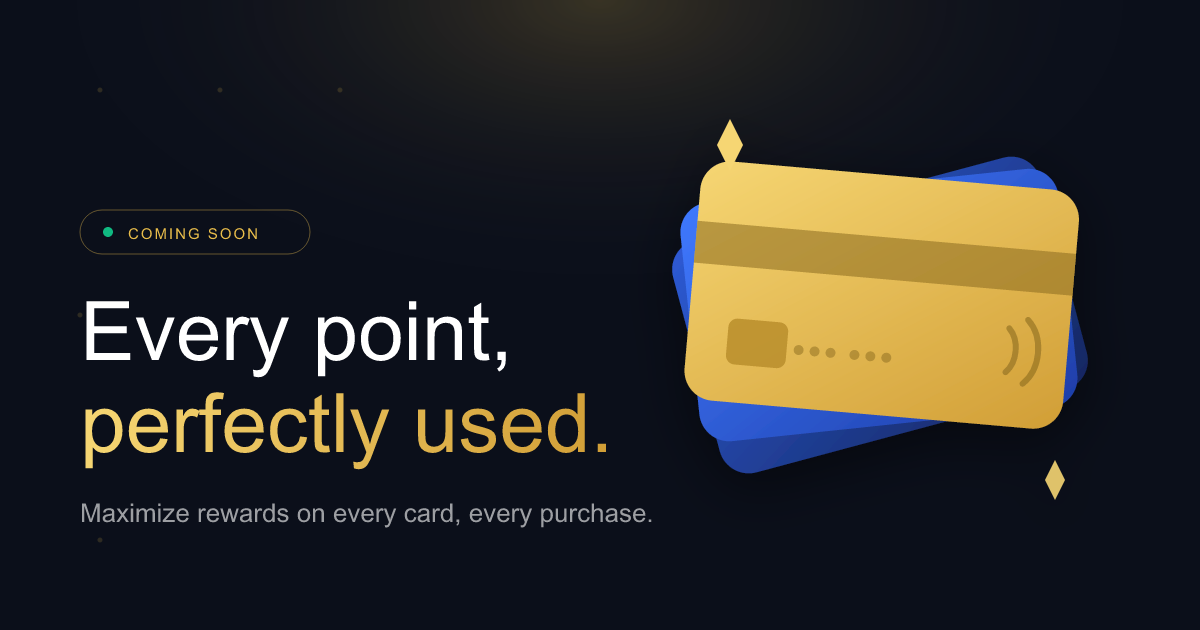
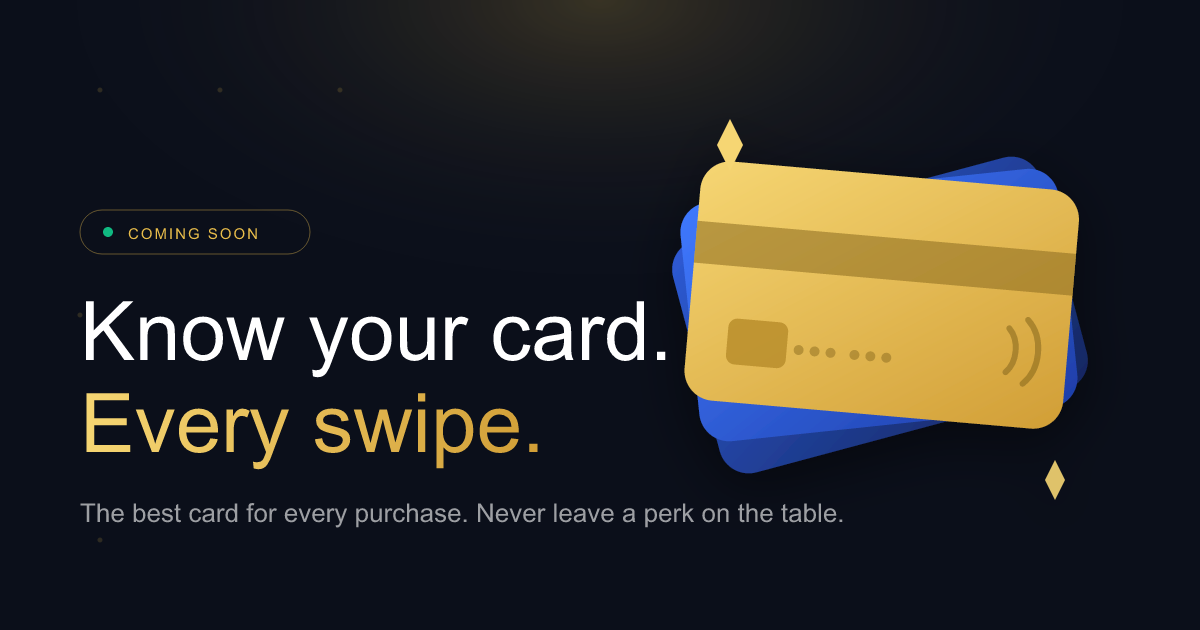
copy(hero): honest reframe — "Know your card. Every swipe." + de-track mockups
Match the landing to what the app actually does — recommendation + perks,
not point-tracking. Adopt the app's own tagline as the headline; rewrite the
subhead around "best card, wherever you are — never leave a perk on the table,
no account linking." Strip the fake tracked totals from the hero phones
(earned / this month / today) and show each card's best category, a real
recurring-credit reminder, and a "2 perks expire soon" nudge (Pillar 2).
Update title / OG / Twitter / manifest + the OG image to the new slogan and
the dark+gold colors.

Changed region(s): [[0.0617, 0.6032, 0.5242, 0.754], [0.0617, 0.4825, 0.555, 0.6032], [0.0617, 0.7841, 0.7092, 0.8444]]

diff --git a/index.html b/index.html
@@ -4,13 +4,13 @@
     <meta charset="UTF-8" />
     <meta name="viewport" content="width=device-width, initial-scale=1.0" />
     <meta name="theme-color" content="#0B0F1A" />
-    <title>PointStax — Every point, perfectly used.</title>
-    <meta name="description" content="Maximize rewards on every purchase. PointStax tells you exactly which credit card to use, every time." />
+    <title>PointStax — Know your card. Every swipe.</title>
+    <meta name="description" content="PointStax tells you the best card to use for every purchase — and never lets you leave a perk on the table. No account linking, ever." />
     <link rel="canonical" href="https://pointstax.ai" />
 
     <!-- Open Graph -->
-    <meta property="og:title" content="PointStax — Every point, perfectly used." />
-    <meta property="og:description" content="Maximize rewards on every purchase, across every card you own." />
+    <meta property="og:title" content="PointStax — Know your card. Every swipe." />
+    <meta property="og:description" content="The best card for every purchase — and never leave a perk on the table. No account linking." />
     <meta property="og:image" content="https://pointstax.ai/og-image.png" />
     <meta property="og:image:width" content="1200" />
     <meta property="og:image:height" content="630" />
@@ -20,8 +20,8 @@
 
     <!-- Twitter -->
     <meta name="twitter:card" content="summary_large_image" />
-    <meta name="twitter:title" content="PointStax — Every point, perfectly used." />
-    <meta name="twitter:description" content="Maximize rewards on every purchase, across every card you own." />
+    <meta name="twitter:title" content="PointStax — Know your card. Every swipe." />
+    <meta name="twitter:description" content="The best card for every purchase — and never leave a perk on the table. No account linking." />
     <meta name="twitter:image" content="https://pointstax.ai/og-image.png" />
 
     <!-- Favicon -->

diff --git a/src/components/HeroPhones.tsx b/src/components/HeroPhones.tsx
@@ -59,7 +59,7 @@ export function HeroPhones() {
         <div style={{ padding: '10px 14px 6px' }}>
           <div style={{ fontSize: 8, color: 'rgba(255,255,255,0.35)', marginBottom: 2 }}>Good morning, Gabriel</div>
           <div style={{ fontSize: 13, color: 'white', fontWeight: 700 }}>My Cards</div>
-          <div style={{ fontSize: 8, color: 'rgba(255,255,255,0.4)', marginTop: 2 }}>3 cards · $2,847 pts this month</div>
+          <div style={{ fontSize: 8, color: 'rgba(255,255,255,0.4)', marginTop: 2 }}>3 cards · always the right one</div>
         </div>
         <div style={{ height: 1, background: 'rgba(255,255,255,0.06)', margin: '6px 10px' }} />
 
@@ -68,7 +68,7 @@ export function HeroPhones() {
           <div style={{ width: 28, height: 18, borderRadius: 4, background: 'linear-gradient(135deg, #1a1a6e, #2563EB)', flexShrink: 0 }} />
           <div style={{ flex: 1, minWidth: 0 }}>
             <div style={{ fontSize: 9, color: 'white', fontWeight: 600 }}>Chase Sapphire</div>
-            <div style={{ fontSize: 7.5, color: 'rgba(255,255,255,0.4)' }}>1,240 pts earned</div>
+            <div style={{ fontSize: 7.5, color: 'rgba(255,255,255,0.4)' }}>best for dining</div>
           </div>
           <div style={{ fontSize: 11, fontWeight: 800, color: '#60A5FA' }}>3×</div>
         </div>
@@ -78,7 +78,7 @@ export function HeroPhones() {
           <div style={{ width: 28, height: 18, borderRadius: 4, background: 'linear-gradient(135deg, #b8860b, #ffd700)', flexShrink: 0 }} />
           <div style={{ flex: 1, minWidth: 0 }}>
             <div style={{ fontSize: 9, color: 'white', fontWeight: 600 }}>Amex Gold</div>
-            <div style={{ fontSize: 7.5, color: 'rgba(255,255,255,0.4)' }}>840 pts earned</div>
+            <div style={{ fontSize: 7.5, color: 'rgba(255,255,255,0.4)' }}>best for groceries</div>
           </div>
           <div style={{ fontSize: 11, fontWeight: 800, color: '#ffd700' }}>4×</div>
         </div>
@@ -88,14 +88,14 @@ export function HeroPhones() {
           <div style={{ width: 28, height: 18, borderRadius: 4, background: 'linear-gradient(135deg, #0f4c81, #1a73e8)', flexShrink: 0 }} />
           <div style={{ flex: 1, minWidth: 0 }}>
             <div style={{ fontSize: 9, color: 'white', fontWeight: 600 }}>Citi Double Cash</div>
-            <div style={{ fontSize: 7.5, color: 'rgba(255,255,255,0.4)' }}>767 pts earned</div>
+            <div style={{ fontSize: 7.5, color: 'rgba(255,255,255,0.4)' }}>everything else</div>
           </div>
           <div style={{ fontSize: 11, fontWeight: 800, color: '#93C5FD' }}>2%</div>
         </div>
 
         {/* Earnings callout */}
         <div style={{ margin: '8px 10px 0', padding: '8px 10px', background: 'rgba(16,185,129,0.08)', border: '1px solid rgba(16,185,129,0.15)', borderRadius: 10 }}>
-          <span style={{ fontSize: 7.5, color: '#10B981', fontWeight: 600 }}>↑ You earned +$14.20 more this week</span>
+          <span style={{ fontSize: 7.5, color: '#10B981', fontWeight: 600 }}>⏰ Amex Gold $10 dining credit — 6 days left</span>
         </div>
       </motion.div>
 
@@ -182,7 +182,7 @@ export function HeroPhones() {
         }}
       >
         <div style={{ width: 5, height: 5, borderRadius: '50%', background: '#10B981', flexShrink: 0 }} />
-        <span style={{ fontSize: 9, color: 'white', fontWeight: 600, fontFamily: 'monospace' }}>Today +3,240 pts</span>
+        <span style={{ fontSize: 9, color: 'white', fontWeight: 600, fontFamily: 'monospace' }}>2 perks expire soon</span>
       </motion.div>
     </div>
   )

diff --git a/src/components/Hero.tsx b/src/components/Hero.tsx
@@ -56,14 +56,14 @@ export function Hero() {
           {/* Left: headline + CTA */}
           <div className="reveal-stagger">
             <h1 className="font-display text-display-xl font-semibold text-white text-balance">
-              Every point,{' '}
+              Know your card.<br />
               <span className="bg-gradient-to-br from-brand-goldMist via-white to-brand-goldBright bg-clip-text text-transparent">
-                perfectly used.
+                Every swipe.
               </span>
             </h1>
 
             <p className="mt-8 max-w-xl text-lg leading-relaxed text-white/60">
-              Maximize rewards on every purchase, across every card you own. PointStax knows exactly which card to use — before you swipe.
+              PointStax picks the best card for every purchase, wherever you are — and never lets you leave a perk on the table. No account linking, ever.
             </p>
 
             {LAUNCH_MODE === 'waitlist' ? (